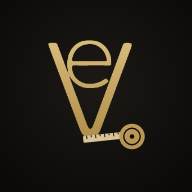
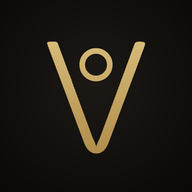
Icone Home uniformi (180/192/512 + maskable): stesso simbolo e grandezza di negozio/Studio/Notes, fondo scuro pieno, tratti originali sottili, nomi v3 e ?v=3, cache SW v7

Changed region(s): [[0.2812, 0.1875, 0.7812, 0.8125], [0.2188, 0.1875, 0.3125, 0.3125]]

diff --git a/privacy.html b/privacy.html
@@ -1,5 +1,5 @@
 <!DOCTYPE html><html lang="it"><head><meta charset="UTF-8"><meta name="viewport" content="width=device-width, initial-scale=1.0, viewport-fit=cover">
-<title>Privacy · Vaghezze Studio</title><meta name="theme-color" content="#0B1F3A"><link rel="icon" href="favicon.ico?v=3" sizes="16x16 32x32 48x48"><link rel="icon" type="image/png" sizes="16x16" href="favicon-v3-16.png?v=3"><link rel="icon" type="image/png" sizes="32x32" href="favicon-v3-32.png?v=3"><link rel="icon" type="image/png" sizes="48x48" href="favicon-v3-48.png?v=3"><link rel="apple-touch-icon" href="apple-touch-icon.png"><link rel="manifest" href="manifest.json"><link rel="stylesheet" href="legal.css"></head>
+<title>Privacy · Vaghezze Studio</title><meta name="theme-color" content="#0B1F3A"><link rel="icon" href="favicon.ico?v=3" sizes="16x16 32x32 48x48"><link rel="icon" type="image/png" sizes="16x16" href="favicon-v3-16.png?v=3"><link rel="icon" type="image/png" sizes="32x32" href="favicon-v3-32.png?v=3"><link rel="icon" type="image/png" sizes="48x48" href="favicon-v3-48.png?v=3"><link rel="apple-touch-icon" href="apple-touch-icon-v3.png?v=3"><link rel="manifest" href="manifest.json?v=3"><link rel="stylesheet" href="legal.css"></head>
 <body><main><a class="back" href="./">← Torna a Vaghezze Studio</a><h1>Privacy</h1><p>Titolare del trattamento: <strong>Pi.Gi Service</strong>, Via Guido Reni 8, 35133 Padova (PD), P.IVA 05770260288 — <a href="mailto:info@pigiservice.com">info@pigiservice.com</a>, PEC <a href="mailto:pigiservice@pec.it">pigiservice@pec.it</a>.</p>
 <h2>Quali dati usa l'app</h2><p>Progetti, note di produzione e la tua chiave API restano <strong>solo nel tuo browser</strong>, su questo dispositivo. Noi non li riceviamo e non li conserviamo.</p>
 <p>Quando premi «Genera disegno tecnico», il testo della richiesta (tipo di capo, materiali, stile, brief) e la tua chiave API vengono inviati direttamente a <strong>Recraft</strong> (recraft.ai), il servizio che crea il disegno, con il tuo account. Per quel servizio valgono la privacy e i costi di Recraft. Non inserire dati personali nel brief.</p>

diff --git a/termini.html b/termini.html
@@ -1,5 +1,5 @@
 <!DOCTYPE html><html lang="it"><head><meta charset="UTF-8"><meta name="viewport" content="width=device-width, initial-scale=1.0, viewport-fit=cover">
-<title>Termini di utilizzo · Vaghezze Studio</title><meta name="theme-color" content="#0B1F3A"><link rel="icon" href="favicon.ico?v=3" sizes="16x16 32x32 48x48"><link rel="icon" type="image/png" sizes="16x16" href="favicon-v3-16.png?v=3"><link rel="icon" type="image/png" sizes="32x32" href="favicon-v3-32.png?v=3"><link rel="icon" type="image/png" sizes="48x48" href="favicon-v3-48.png?v=3"><link rel="apple-touch-icon" href="apple-touch-icon.png"><link rel="manifest" href="manifest.json"><link rel="stylesheet" href="legal.css"></head>
+<title>Termini di utilizzo · Vaghezze Studio</title><meta name="theme-color" content="#0B1F3A"><link rel="icon" href="favicon.ico?v=3" sizes="16x16 32x32 48x48"><link rel="icon" type="image/png" sizes="16x16" href="favicon-v3-16.png?v=3"><link rel="icon" type="image/png" sizes="32x32" href="favicon-v3-32.png?v=3"><link rel="icon" type="image/png" sizes="48x48" href="favicon-v3-48.png?v=3"><link rel="apple-touch-icon" href="apple-touch-icon-v3.png?v=3"><link rel="manifest" href="manifest.json?v=3"><link rel="stylesheet" href="legal.css"></head>
 <body><main><a class="back" href="./">← Torna a Vaghezze Studio</a><h1>Termini di utilizzo</h1><p>Fornitore: <strong>Pi.Gi Service</strong>, Via Guido Reni 8, 35133 Padova (PD), P.IVA 05770260288.</p><p>Vaghezze Studio ti aiuta a creare disegni tecnici di capi reworked e note di produzione. I disegni sono generati da un servizio esterno (Recraft) con la tua chiave API: eventuali costi di quel servizio sono a carico del tuo account Recraft. Vaghezze Studio non addebita nulla.</p>
 <p>Controlla sempre il disegno e le misure con il sarto prima di produrre. Sei tu responsabile di ciò che scrivi e di come usi i disegni; non chiedere copie di marchi o modelli protetti.</p>
 <h2>Servizio così com'è</h2><p>L'app è offerta così com'è, senza garanzia di funzionamento continuo. Possiamo aggiornarla o cambiarla.</p>

diff --git a/cookie.html b/cookie.html
@@ -1,5 +1,5 @@
 <!DOCTYPE html><html lang="it"><head><meta charset="UTF-8"><meta name="viewport" content="width=device-width, initial-scale=1.0, viewport-fit=cover">
-<title>Cookie · Vaghezze Studio</title><meta name="theme-color" content="#0B1F3A"><link rel="icon" href="favicon.ico?v=3" sizes="16x16 32x32 48x48"><link rel="icon" type="image/png" sizes="16x16" href="favicon-v3-16.png?v=3"><link rel="icon" type="image/png" sizes="32x32" href="favicon-v3-32.png?v=3"><link rel="icon" type="image/png" sizes="48x48" href="favicon-v3-48.png?v=3"><link rel="apple-touch-icon" href="apple-touch-icon.png"><link rel="manifest" href="manifest.json"><link rel="stylesheet" href="legal.css"></head>
+<title>Cookie · Vaghezze Studio</title><meta name="theme-color" content="#0B1F3A"><link rel="icon" href="favicon.ico?v=3" sizes="16x16 32x32 48x48"><link rel="icon" type="image/png" sizes="16x16" href="favicon-v3-16.png?v=3"><link rel="icon" type="image/png" sizes="32x32" href="favicon-v3-32.png?v=3"><link rel="icon" type="image/png" sizes="48x48" href="favicon-v3-48.png?v=3"><link rel="apple-touch-icon" href="apple-touch-icon-v3.png?v=3"><link rel="manifest" href="manifest.json?v=3"><link rel="stylesheet" href="legal.css"></head>
 <body><main><a class="back" href="./">← Torna a Vaghezze Studio</a><h1>Cookie</h1><p><strong>Questa app non usa cookie</strong>, né di profilazione né di analisi. Per questo non ti chiediamo il consenso.</p>
 <p>Usa solo la memoria del browser (localStorage e cache dell'app) per salvare i tuoi dati sul dispositivo e per funzionare senza rete. Sono strumenti tecnici necessari: puoi cancellarli quando vuoi dalle impostazioni del browser.</p><p class="muted">Ultimo aggiornamento: 11 ottobre 2026</p></main><footer><p class="brand-line"><strong>Vaghezze Studio</strong> · un'app di <a href="https://vaghezze.com">vaghezze.com</a></p>
     <p><strong>Pi.Gi Service</strong> · Via Guido Reni 8, 35133 Padova (PD) · P.IVA 05770260288</p>

diff --git a/sw.js b/sw.js
@@ -1,10 +1,10 @@
 // Service worker Vaghezze Studio: app disponibile anche senza rete.
 // Cambia CACHE a ogni nuova versione: la vecchia cache viene cancellata.
-const CACHE = 'vaghezze-studio-v6';
+const CACHE = 'vaghezze-studio-v7';
 const ASSETS = [
   './', './index.html', './styles.css', './app.js', './install.js', './install.css', './manifest.json',
-  './icon.svg', './favicon.ico', './favicon-v3-16.png', './favicon-v3-32.png', './favicon-v3-48.png', './icon-192.png', './icon-512.png', './icon-maskable-192.png', './icon-maskable-512.png',
-  './apple-touch-icon.png', './privacy.html', './termini.html', './cookie.html', './legal.css'
+  './icon.svg', './favicon.ico', './favicon-v3-16.png', './favicon-v3-32.png', './favicon-v3-48.png', './icon-v3-192.png', './icon-v3-512.png', './icon-v3-maskable-192.png', './icon-v3-maskable-512.png',
+  './apple-touch-icon-v3.png', './privacy.html', './termini.html', './cookie.html', './legal.css'
 ];
 
 self.addEventListener('install', (event) => {

diff --git a/index.html b/index.html
@@ -11,12 +11,12 @@
   <meta name="apple-mobile-web-app-title" content="Vaghezze Studio">
   <meta name="apple-mobile-web-app-status-bar-style" content="black-translucent">
   <meta name="theme-color" content="#0B1F3A">
-  <link rel="manifest" href="manifest.json">
+  <link rel="manifest" href="manifest.json?v=3">
   <link rel="icon" href="favicon.ico?v=3" sizes="16x16 32x32 48x48">
   <link rel="icon" type="image/png" sizes="16x16" href="favicon-v3-16.png?v=3">
   <link rel="icon" type="image/png" sizes="32x32" href="favicon-v3-32.png?v=3">
   <link rel="icon" type="image/png" sizes="48x48" href="favicon-v3-48.png?v=3">
-  <link rel="apple-touch-icon" href="apple-touch-icon.png">
+  <link rel="apple-touch-icon" href="apple-touch-icon-v3.png?v=3">
   <link rel="stylesheet" href="styles.css">
   <link rel="stylesheet" href="install.css">
 </head>
